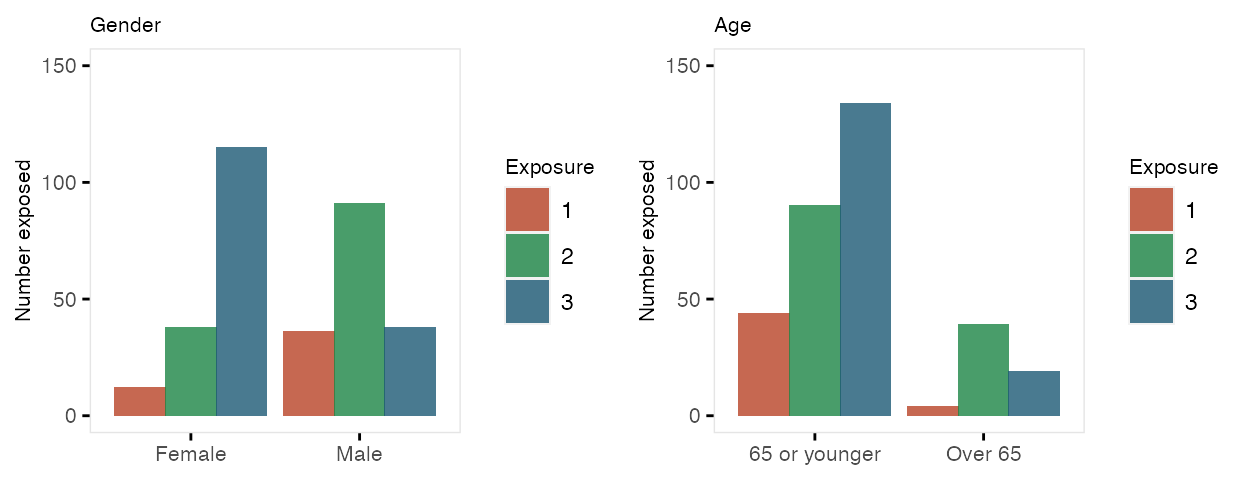
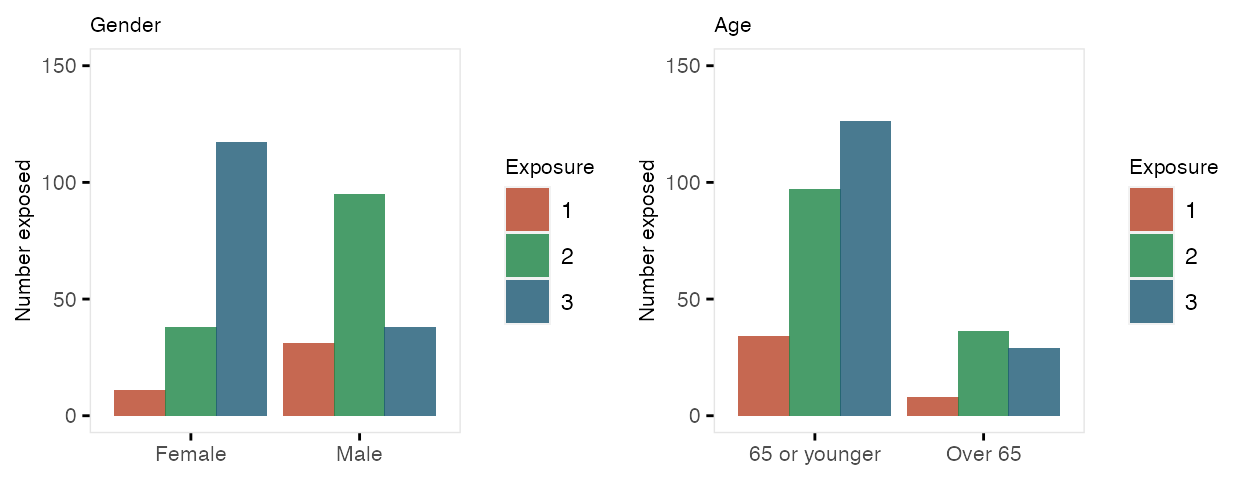
Built site for simstudy: 0.2.2.9000@ff91d12

diff --git a/dev/articles/missing.html b/dev/articles/missing.html
@@ -159,18 +159,18 @@
 ## 1000: 1000  0  0  0 1 0</code></pre>
 <div class="sourceCode" id="cb5"><pre class="downlit">
 <span class="va">dtObs</span></pre></div>
-<pre><code>##         id m  u        x1        x2         x3
-##    1:    1 1 NA 39.776994 41.063028 39.3018608
-##    2:    2 0 NA 20.861236 19.202030 21.2486039
-##    3:    3 1 NA        NA 38.746625 39.7893621
-##    4:    4 0 NA        NA  1.305907  0.0248889
-##    5:    5 0 NA        NA        NA 19.1546567
-##   ---                                         
-##  996:  996 1 NA 40.498010 39.456846 42.9770181
-##  997:  997 1 NA        NA 18.719032 18.4575633
-##  998:  998 0 NA -1.663208  2.332951  0.3995003
-##  999:  999 0 NA 18.680830 19.724986 21.1682610
-## 1000: 1000 0 NA  1.271213  2.091982  0.9562680</code></pre>
+<pre><code>##         id m  u        x1         x2         x3
+##    1:    1 0 NA 20.674864 20.0550791 20.1019859
+##    2:    2 1 NA 41.717975 40.4970235 42.6925633
+##    3:    3 0 NA        NA  0.3785857  0.7648583
+##    4:    4 0 NA        NA -2.0981600  1.1497181
+##    5:    5 0 NA        NA         NA -1.5113267
+##   ---                                          
+##  996:  996 0 NA  1.567862  2.6416491 -1.1224537
+##  997:  997 0 NA        NA  2.1357585  0.7696966
+##  998:  998 0 NA  2.284096  0.8814137 -0.3433817
+##  999:  999 1 NA 18.866402 20.9554324 20.3230423
+## 1000: 1000 1 NA 37.851757 39.0720571 41.3288533</code></pre>
 <p>The impacts of the various data mechanisms on estimation can be seen with a simple calculation of means using both the “true” data set without missing data as a comparison for the “observed” data set. Since <code>x1</code> is MCAR, the averages for both data sets are roughly equivalent. However, we can see below that estimates for <code>x2</code> and <code>x3</code> are biased, as the difference between observed and actual is not close to 0:</p>
 <div class="sourceCode" id="cb7"><pre class="downlit">
 <span class="co"># Two functions to calculate means and compare them</span>
@@ -192,9 +192,9 @@
 
 <span class="fu">showDif</span><span class="op">(</span><span class="va">meanAct</span>, <span class="va">meanObs</span><span class="op">)</span></pre></div>
 <pre><code>##              x1   x2   x3
-## Actual     19.6 19.8 19.7
-## Observed   19.3 18.3 18.2
-## Difference  0.3  1.5  1.5</code></pre>
+## Actual     18.7 18.7 18.7
+## Observed   18.8 16.9 17.2
+## Difference -0.1  1.8  1.5</code></pre>
 <p>After adjusting for the measured covariate <code>m</code>, the bias for the estimate of the mean of <code>x2</code> is mitigated, but not for <code>x3</code>, since <code>u</code> is not observed:</p>
 <div class="sourceCode" id="cb9"><pre class="downlit">
 <span class="va">meanActm</span> <span class="op">&lt;-</span> <span class="va">dtAct</span><span class="op">[</span>, <span class="fu">.</span><span class="op">(</span>x1 <span class="op">=</span> <span class="fu">rmean</span><span class="op">(</span><span class="va">x1</span><span class="op">)</span>, x2 <span class="op">=</span> <span class="fu">rmean</span><span class="op">(</span><span class="va">x2</span><span class="op">)</span>, x3 <span class="op">=</span> <span class="fu">rmean</span><span class="op">(</span><span class="va">x3</span><span class="op">)</span><span class="op">)</span>, keyby <span class="op">=</span> <span class="va">m</span><span class="op">]</span>
@@ -203,18 +203,18 @@
 <span class="co"># compare observed and actual when m = 0</span>
 
 <span class="fu">showDif</span><span class="op">(</span><span class="va">meanActm</span><span class="op">[</span><span class="va">m</span> <span class="op">==</span> <span class="fl">0</span>, <span class="fu">.</span><span class="op">(</span><span class="va">x1</span>, <span class="va">x2</span>, <span class="va">x3</span><span class="op">)</span><span class="op">]</span>, <span class="va">meanObsm</span><span class="op">[</span><span class="va">m</span> <span class="op">==</span> <span class="fl">0</span>, <span class="fu">.</span><span class="op">(</span><span class="va">x1</span>, <span class="va">x2</span>, <span class="va">x3</span><span class="op">)</span><span class="op">]</span><span class="op">)</span></pre></div>
-<pre><code>##              x1   x2  x3
-## Actual      9.7  9.8 9.8
-## Observed    9.8 10.0 8.5
-## Difference -0.1 -0.2 1.3</code></pre>
+<pre><code>##              x1  x2  x3
+## Actual      9.4 9.5 9.4
+## Observed    9.5 9.4 7.9
+## Difference -0.1 0.1 1.5</code></pre>
 <div class="sourceCode" id="cb12"><pre class="downlit">
 <span class="co"># compare observed and actual when m = 1</span>
 
 <span class="fu">showDif</span><span class="op">(</span><span class="va">meanActm</span><span class="op">[</span><span class="va">m</span> <span class="op">==</span> <span class="fl">1</span>, <span class="fu">.</span><span class="op">(</span><span class="va">x1</span>, <span class="va">x2</span>, <span class="va">x3</span><span class="op">)</span><span class="op">]</span>, <span class="va">meanObsm</span><span class="op">[</span><span class="va">m</span> <span class="op">==</span> <span class="fl">1</span>, <span class="fu">.</span><span class="op">(</span><span class="va">x1</span>, <span class="va">x2</span>, <span class="va">x3</span><span class="op">)</span><span class="op">]</span><span class="op">)</span></pre></div>
 <pre><code>##              x1   x2   x3
-## Actual     29.6 29.9 29.7
-## Observed   29.5 29.8 28.1
-## Difference  0.1  0.1  1.6</code></pre>
+## Actual     29.4 29.4 29.5
+## Observed   29.3 29.4 28.1
+## Difference  0.1  0.0  1.4</code></pre>
 <div id="longitudinal-data-with-missingness" class="section level2">
 <h2 class="hasAnchor">
 <a href="#longitudinal-data-with-missingness" class="anchor"></a>Longitudinal data with missingness</h2>

diff --git a/dev/articles/treat_and_exposure.html b/dev/articles/treat_and_exposure.html
@@ -143,17 +143,17 @@
 
 <span class="va">study1</span></pre></div>
 <pre><code>##      cid male over65  baseDBP rxGrp
-##   1:   1    1      1 69.81909     2
-##   2:   2    0      0 70.29960     1
-##   3:   3    0      0 67.39441     1
-##   4:   4    1      1 70.85101     3
-##   5:   5    1      0 64.51694     1
+##   1:   1    0      0 66.19557     1
+##   2:   2    0      1 58.70565     1
+##   3:   3    0      0 61.29824     3
+##   4:   4    0      0 65.35421     1
+##   5:   5    1      0 69.74175     1
 ##  ---                               
-## 326: 326    0      0 60.77944     3
-## 327: 327    0      0 64.73294     3
-## 328: 328    1      1 63.94018     1
-## 329: 329    1      0 62.54922     1
-## 330: 330    0      0 60.26860     2</code></pre>
+## 326: 326    0      0 64.25808     3
+## 327: 327    1      1 72.13398     2
+## 328: 328    0      0 63.46657     3
+## 329: 329    1      0 74.11982     1
+## 330: 330    0      0 81.16919     1</code></pre>
 <p><em>Balanced treatment assignment (without stratification)</em></p>
 <div class="sourceCode" id="cb4"><pre class="downlit">
 <span class="va">study2</span> <span class="op">&lt;-</span> <span class="fu"><a href="../reference/trtAssign.html">trtAssign</a></span><span class="op">(</span><span class="va">dtstudy</span>, n <span class="op">=</span> <span class="fl">3</span>, balanced <span class="op">=</span> <span class="cn">TRUE</span>, grpName <span class="op">=</span> <span class="st">"rxGrp"</span><span class="op">)</span></pre></div>

diff --git a/dev/reference/genData.html b/dev/reference/genData.html
@@ -176,7 +176,8 @@ a data set with ids only is generated.</p></td>
     </tr>
     <tr>
       <th>id</th>
-      <td><p>The string defining the id of the record</p></td>
+      <td><p>The string defining the id of the record. Only valid if no <code>dtDefs</code>
+is supplied or <code>id</code> matches the id name of the definition.</p></td>
     </tr>
     <tr>
       <th>envir</th>
